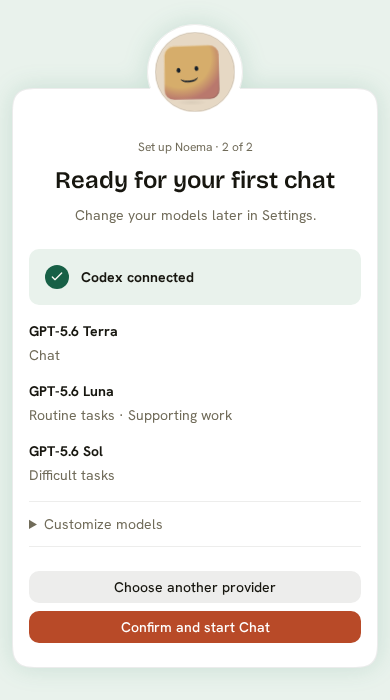
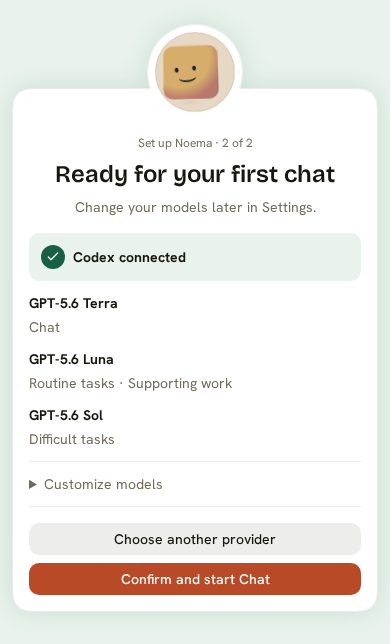
docs: tighten supporting flow mock spacing

diff --git a/docs/plans/2026-09-04-supporting-ui/mocks.css b/docs/plans/2026-09-04-supporting-ui/mocks.css
@@ -31,17 +31,18 @@ h2 { font: var(--text-heading-4-weight) var(--text-heading-4-size)/var(--text-he
 /* Compound surface: the avatar mount and card share one exterior shadow.
    Match AppShell.contentDeck: its 24px box blur becomes a 12px Gaussian deviation. */
 .setup-surface { display: grid; justify-items: center; width: min(456px, 100%); filter: drop-shadow(0 0 calc(var(--spacing-6) / 2) color-mix(in srgb, var(--noema-pine-500) 16%, transparent)); }
-.sheet { position: relative; width: 100%; padding: var(--spacing-12) var(--spacing-8) var(--spacing-8); background: var(--background); border: 1px solid var(--border-subtle); border-radius: var(--radius-page); corner-shape: var(--corner-shape-page); }
+.sheet { position: relative; width: 100%; padding: calc(var(--spacing-8) + var(--spacing-3)) var(--spacing-5) var(--spacing-5); background: var(--background); border: 1px solid var(--border-subtle); border-radius: var(--radius-page); corner-shape: var(--corner-shape-page); }
 /* The 80px avatar sits in an 8px white mount. Its full face stays above the card paint. */
 .peek-avatar { position: relative; z-index: 1; width: 96px; height: 96px; padding: var(--spacing-2); margin-bottom: calc(-1 * var(--spacing-8)); background: var(--background); border-radius: var(--radius-full); pointer-events: none; }
 /* Border follows only the exposed arc; the lower edge merges into the card. */
 .peek-avatar::before { content: ""; position: absolute; inset: 0; border: 1px solid var(--border-subtle); border-radius: inherit; clip-path: inset(0 0 var(--spacing-8) 0); }
 .peek-avatar > svg, .peek-avatar > img { display: block; width: 100%; height: 100%; }
-/* One owner per boundary: heading 8, task regions 24, related body groups 16. */
-.screen-heading { display: grid; gap: var(--spacing-2); text-align: center; text-wrap: pretty; }
-.screen-body { display: flex; flex-direction: column; gap: var(--spacing-4); margin-top: var(--spacing-6); }
+/* One owner per boundary: heading 6, task regions 16, related body groups 12.
+   Card top inset includes the 32px avatar overlap plus 12px of clearance. */
+.screen-heading { display: grid; gap: var(--spacing-1-5); text-align: center; text-wrap: pretty; }
+.screen-body { display: flex; flex-direction: column; gap: var(--spacing-3); margin-top: var(--spacing-4); }
 .screen-body > * { margin: 0; }
-.screen-body > .actions:has(.primary), .screen-body > .decision-actions { margin-top: var(--spacing-2); }
+.screen-body > .actions:has(.primary), .screen-body > .decision-actions { margin-top: var(--spacing-1); }
 .screen-body > .actions:first-child { margin-top: 0; }
 #screen { animation: arrive var(--motion-spring-standard) both; }
 .intro { color: var(--muted-foreground); text-wrap: pretty; }
@@ -51,7 +52,7 @@ h2 { font: var(--text-heading-4-weight) var(--text-heading-4-size)/var(--text-he
 .actions > .astryx-button, .decision-actions > .astryx-button { width: 100%; min-width: 0; }
 .decision-actions { display: grid; grid-template-columns: 1fr 1fr; gap: var(--spacing-2); }
 .note { color: var(--muted-foreground); text-align: center; text-wrap: pretty; }
-.status { display: flex; align-items: center; gap: var(--spacing-3); padding: var(--spacing-4); background: var(--surface-sunken); border-radius: var(--radius-element); }
+.status { display: flex; align-items: center; gap: var(--spacing-2); padding: var(--spacing-3); background: var(--surface-sunken); border-radius: var(--radius-element); }
 .status.success { background: var(--noema-pine-50); color: var(--noema-pine-700); }
 .status.error { background: var(--noema-red-100); color: var(--noema-red-700); }
 .status p + p { margin-top: var(--spacing-1); }
@@ -59,7 +60,7 @@ h2 { font: var(--text-heading-4-weight) var(--text-heading-4-size)/var(--text-he
 .status.success .status-icon { background: var(--noema-pine-600); color: var(--primary-foreground); border-radius: var(--radius-full); }
 .status-icon svg { width: var(--spacing-4); height: var(--spacing-4); }
 .status.success path { stroke-dasharray: 24; animation: complete var(--motion-spring-standard) both; }
-.details { padding: var(--spacing-4); background: var(--surface-sunken); border-radius: var(--radius-element); }
+.details { padding: var(--spacing-3); background: var(--surface-sunken); border-radius: var(--radius-element); }
 .details p { margin-top: var(--spacing-2); color: var(--muted-foreground); }
 .field { display: grid; gap: var(--spacing-1-5); }
 .field label { font-weight: var(--text-label-weight); }
@@ -82,10 +83,10 @@ details code { font-family: var(--font-family-code); overflow-wrap: anywhere; }
 .option-copy { display: grid; gap: var(--spacing-1); min-width: 0; }
 .option-copy strong { color: var(--noema-text-primary); font-size: 13px; font-weight: 650; line-height: 1.35; }
 .option-copy small { color: var(--noema-text-secondary); font-size: 12px; line-height: 1.35; }
-.facts { display: grid; gap: var(--spacing-3); }
+.facts { display: grid; gap: var(--spacing-2); }
 .fact { display: flex; flex-wrap: wrap; justify-content: space-between; gap: var(--spacing-2); }
 .fact span:last-child { color: var(--muted-foreground); }
-.model-summary { display: grid; gap: var(--spacing-4); }
+.model-summary { display: grid; gap: var(--spacing-3); }
 .model-summary-row { display: grid; gap: var(--spacing-1); }
 .model-summary-row p { color: var(--muted-foreground); text-wrap: pretty; }
 .assignment { display: grid; gap: var(--spacing-1-5); margin-top: var(--spacing-3); }
@@ -96,7 +97,7 @@ progress::-webkit-progress-bar { background: var(--surface-sunken); }
 progress::-webkit-progress-value { background: var(--primary); border-radius: var(--radius-full); }
 progress::-moz-progress-bar { background: var(--primary); }
 .progress .fact { font-variant-numeric: tabular-nums; }
-.device-code { display: flex; flex-wrap: wrap; align-items: center; justify-content: space-between; gap: var(--spacing-3); padding: var(--spacing-3) var(--spacing-4); border-radius: var(--radius-element); background: var(--surface-sunken); }
+.device-code { display: flex; flex-wrap: wrap; align-items: center; justify-content: space-between; gap: var(--spacing-3); padding: var(--spacing-2) var(--spacing-3); border-radius: var(--radius-element); background: var(--surface-sunken); }
 .device-code code { font-size: var(--font-size-lg); font-family: var(--font-family-code); letter-spacing: normal; }
 .spinner { width: 18px; height: 18px; border: 2px solid var(--border-default); border-top-color: var(--primary); border-radius: var(--radius-full); animation: turn 1s linear infinite; flex: none; }
 .review-context { max-width: 760px; margin: 0 auto; padding: var(--spacing-6); border-top: 1px solid var(--border-subtle); color: var(--muted-foreground); }
@@ -110,7 +111,7 @@ progress::-moz-progress-bar { background: var(--primary); }
 }
 @container (max-width: 500px) {
   .stage { padding: var(--spacing-6) var(--spacing-3) var(--spacing-8); min-height: 560px; }
-  .sheet { padding: var(--spacing-12) var(--spacing-4) var(--spacing-6); }
+  .sheet { padding-inline: var(--spacing-4); padding-bottom: var(--spacing-4); }
   .field input { font-size: max(16px, 1em); }
 }
 @media (max-width: 540px) {

diff --git a/docs/plans/2026-09-04-supporting-ui/README.md b/docs/plans/2026-09-04-supporting-ui/README.md
@@ -66,9 +66,11 @@ Use the existing setup frame, connection surfaces, and Astryx controls during im
 - Match `shadow-shell-frame` for the combined silhouette: pine at 16% opacity, with zero offset and the same blur width.
 - The preview converts the 24-pixel box-shadow blur to a 12-pixel drop-shadow deviation. This preserves the compound outline.
 - Keep `radius-element` for controls.
-- Assign one spacing owner per boundary: 8 pixels inside the header, 16 between body groups, and 24 before primary actions.
+- Assign one spacing owner per boundary: 6 pixels inside the header, 12 between body groups, and 16 before primary actions.
 - Keep label/control gaps at 6 pixels. Do not add child margins to a parent stack gap.
-- Reserve 48 pixels above card content for the avatar junction. Use 32-pixel desktop insets and 24-pixel phone bottom padding.
+- Use 16 pixels between the header and body. Use 12-pixel status and detail padding, and 8-pixel fact gaps.
+- Reserve 44 pixels above card content: 32 for the avatar overlap and 12 for clearance.
+- Use 20-pixel desktop side and bottom insets. Use 16-pixel phone side and bottom insets.
 - Use `ListCardButton` from `components/ListCardLink.tsx` for provider choices. It shares the Task card frame.
 - Match Task card borders, white fill, small shadow, 8/12-pixel padding, 6-pixel list gaps, and 13/12-pixel text metrics.
 - Reuse its hover border/background and external focus outline. Do not add the earlier inset ring or moving chevron.

diff --git a/docs/plans/2026-09-04-supporting-ui/validation.md b/docs/plans/2026-09-04-supporting-ui/validation.md
@@ -10,6 +10,8 @@ Scope: the saved design gallery. These results do not certify the production flo
 - Network requests were blocked during review. The gallery requested no remote resources.
 - All 33 states rendered at desktop, 390-pixel, and 320-pixel preview widths.
 - The 99 layout checks found no content outside the preview width and no text overflow.
+- Compact spacing used 20-pixel desktop insets, 16-pixel phone insets, 12-pixel body gaps, and 16-pixel section boundaries.
+- The avatar junction retained 12 pixels of clearance. Astryx button sizes and Task card spacing stayed unchanged.
 - Provider cards stay within the content width and use the Task list’s six-pixel gap.
 - The expanded model form also fit a physical 320-pixel browser viewport.
 - All action targets and documented screen links resolved.
